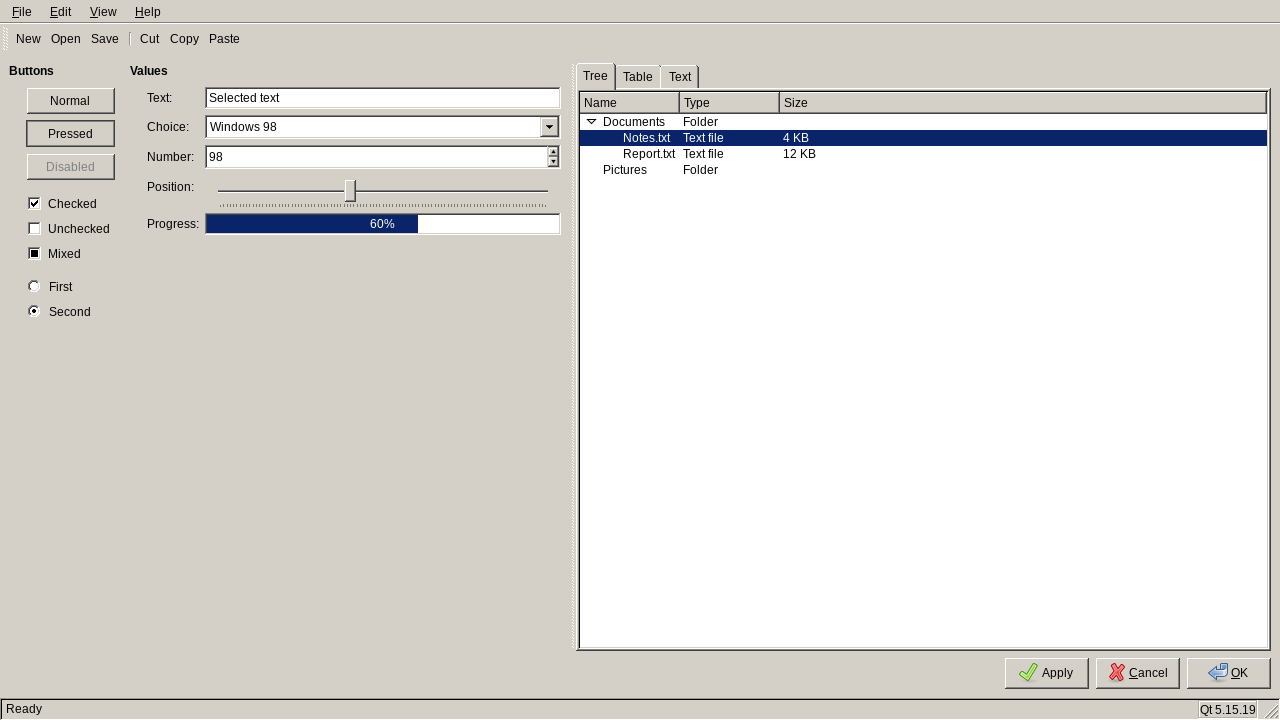
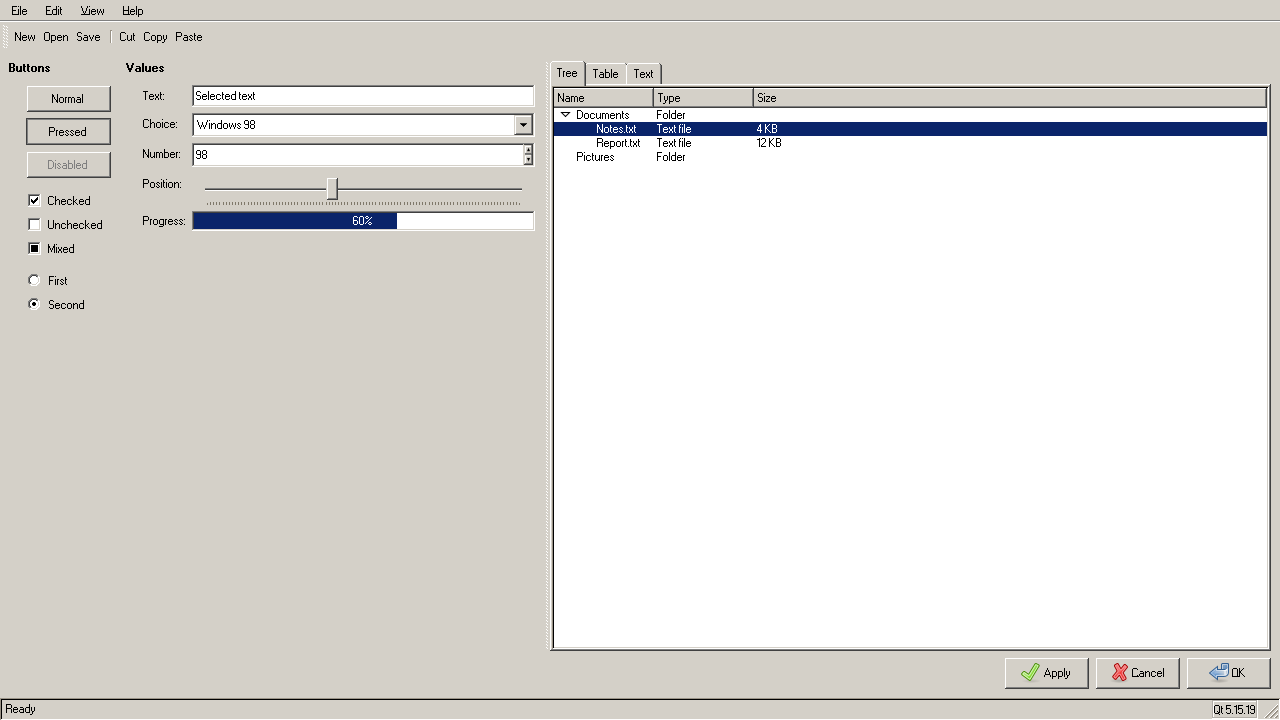
Draw the interface with MS Sans Serif

diff --git a/fonts/name-bold.py b/fonts/name-bold.py
@@ -1,0 +1,40 @@
+# Give the bold file the name of the bold style of the regular family.
+#
+#     name-bold.py <source> <destination>
+import sys
+
+from fontTools.ttLib import TTFont
+
+FAMILY = "MS Sans Serif"
+STYLE = "Bold"
+
+# The name table keeps one string for each of these numbers.
+NAMES = {
+    1: FAMILY,  # family
+    2: STYLE,  # style
+    3: f"{FAMILY} {STYLE}",  # identifier
+    4: f"{FAMILY} {STYLE}",  # full name
+    6: f"{FAMILY.replace(' ', '')}-{STYLE}",  # PostScript name
+    16: FAMILY,  # typographic family
+    17: STYLE,  # typographic style
+}
+
+source, destination = sys.argv[1], sys.argv[2]
+font = TTFont(source)
+
+for record in list(font["name"].names):
+    text = NAMES.get(record.nameID)
+    if text is not None:
+        font["name"].setName(
+            text, record.nameID, record.platformID, record.platEncID, record.langID
+        )
+
+for name_id in (16, 17):
+    font["name"].setName(NAMES[name_id], name_id, 3, 1, 0x409)
+
+# The three tables that tell a toolkit that the file holds a bold face.
+font["OS/2"].usWeightClass = 700
+font["OS/2"].fsSelection = (font["OS/2"].fsSelection & ~0x40) | 0x20
+font["head"].macStyle |= 0x01
+
+font.save(destination)

diff --git a/README.md b/README.md
@@ -143,7 +143,7 @@ and `variant` names the one that the session starts with.
           dark = { preset = "dark"; dark = true; };
           standard = { preset = "windows-standard"; };
         };
-        font = { name = "Liberation Sans"; size = 9; };
+        font = { name = "MS Sans Serif"; size = 8; };
       };
     in
     {
@@ -262,7 +262,7 @@ in the store. A new window takes the new scheme; an open one needs a restart.
 | `titlebarButtons`           | all                | the buttons of a title bar                          |
 | `decorationLayout`          | that of the theme  | `gtk-decoration-layout`, the buttons that GTK draws |
 | `windowManagerButtonLayout` | that of the theme  | the buttons that the window manager draws           |
-| `font`                      | Liberation Sans 9  | the interface font                                  |
+| `font`                      | MS Sans Serif 8    | the interface font                                  |
 | `iconTheme`                 | Chicago95          | the icon theme                                      |
 | `cursorTheme`               | Adwaita 16         | the cursor theme                                    |
 | `fontRendering`             | 96 dpi, hintslight | antialias, hinting, subpixel order and dpi          |
@@ -286,3 +286,9 @@ the slider alone. Give the file to such a program, for example with the
 
 GPL 3. See `LICENSE`. The images and the style sheets come from Redmond97 SE by
 Sliver X.
+
+`fonts/` holds the interface font, the FontStruction "MS Sans Serif" and
+"MS Sans Serif Bold" by "lou", under a
+[Creative Commons Attribution Share Alike 3.0](http://creativecommons.org/licenses/by-sa/3.0/)
+license. Each directory keeps the license and the readme of the author beside
+the font file, as that license asks.

diff --git a/DEVELOPMENT.md b/DEVELOPMENT.md
@@ -74,6 +74,26 @@ tokens. The build replaces each token with a color. These files hold tokens:
 Do not change a color in a style sheet by hand. The build ignores your change
 on the next build of a different scheme. Add a token in its place.
 
+## The interface font
+
+`fonts/` holds the two files of the FontStruction "MS Sans Serif" by "lou",
+each one with the license and the readme of the author. `fonts/default.nix`
+makes the package, and `font.package` in the modules installs it. The theme
+itself holds no font: the package of a scheme and the package of the font are
+two different packages.
+
+The bold file gives itself the family "MS Sans Serif Bold" and the style
+"Regular". A toolkit that asks for bold text then draws a fake bold of the
+regular file. `fonts/name-bold.py` writes the name table of that file again in
+the build: the family becomes "MS Sans Serif" and the style becomes "Bold".
+Thus the two files make one family with two styles, and a description such as
+`MS Sans Serif Bold 8` finds the second file. The files in Git stay as the
+author made them.
+
+The font puts each line of a glyph on a whole pixel at 8 points and 96 dpi,
+which is the size of the interface of Windows 9x. `font.size` changes it. The
+screenshots below use that size.
+
 ## How the build makes the screenshots
 
 `dev/screenshot.sh` starts an X server with Xvfb, an Xfwm4 with the theme, and
